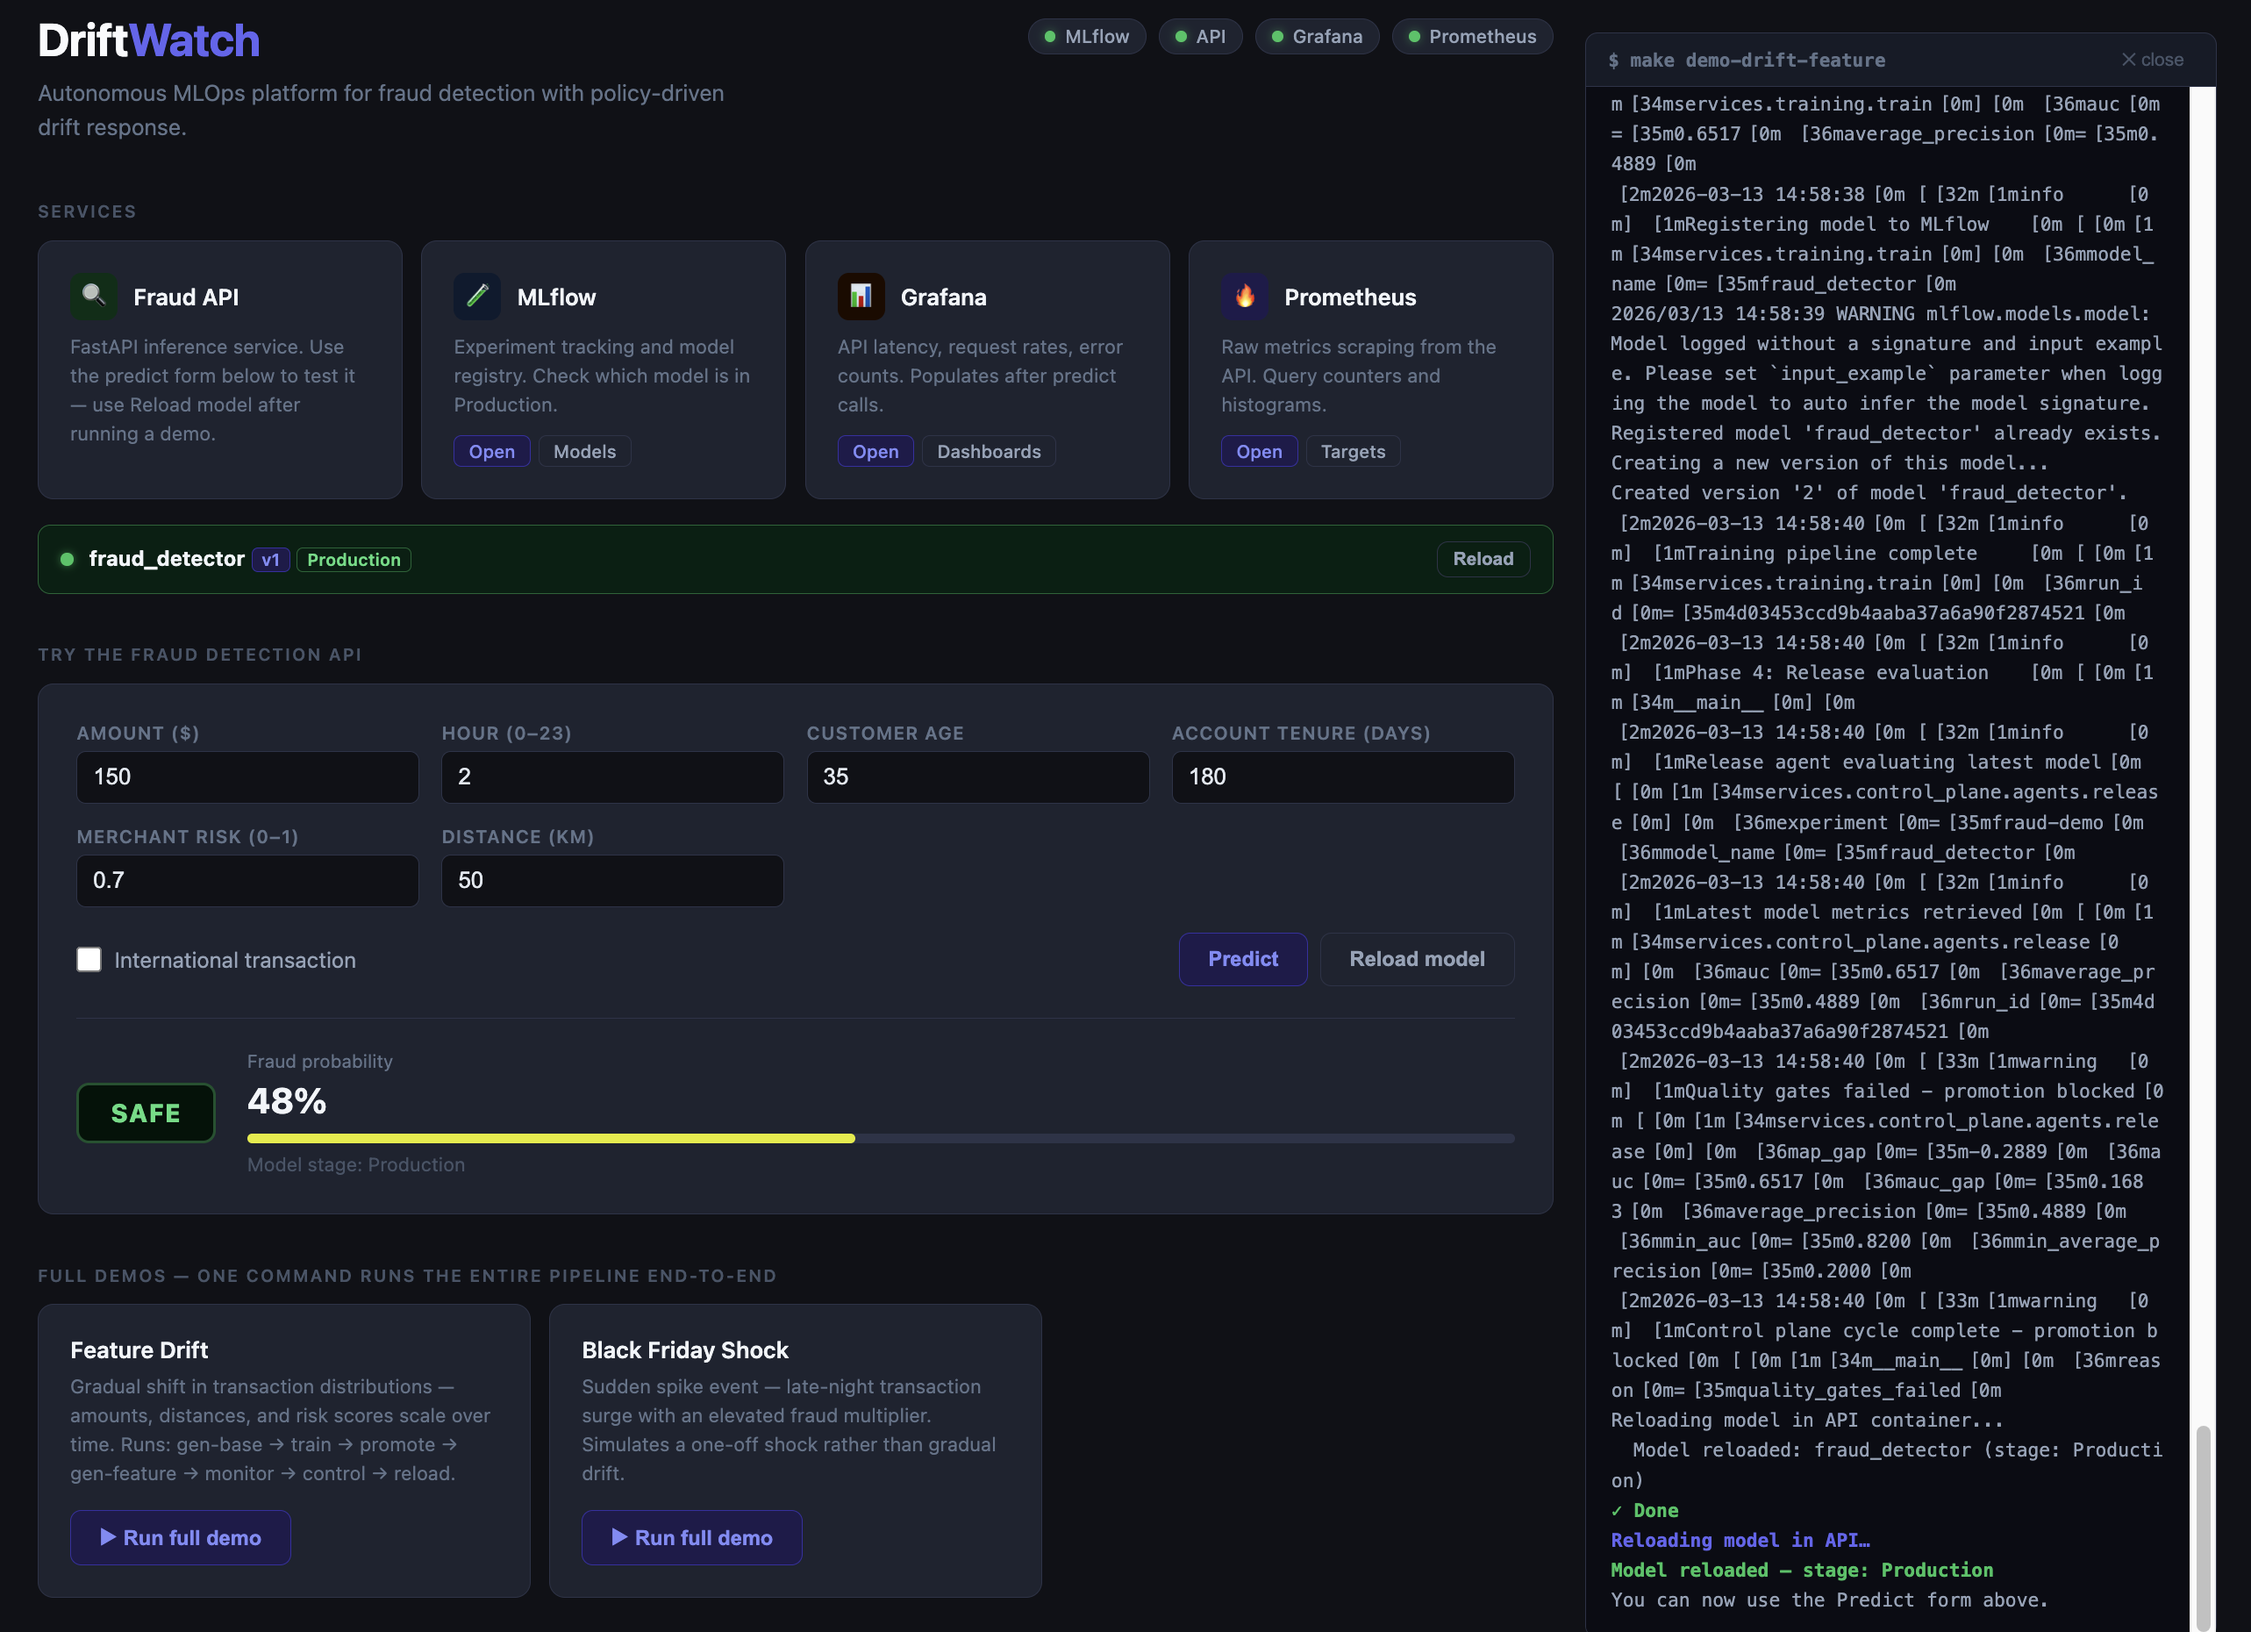
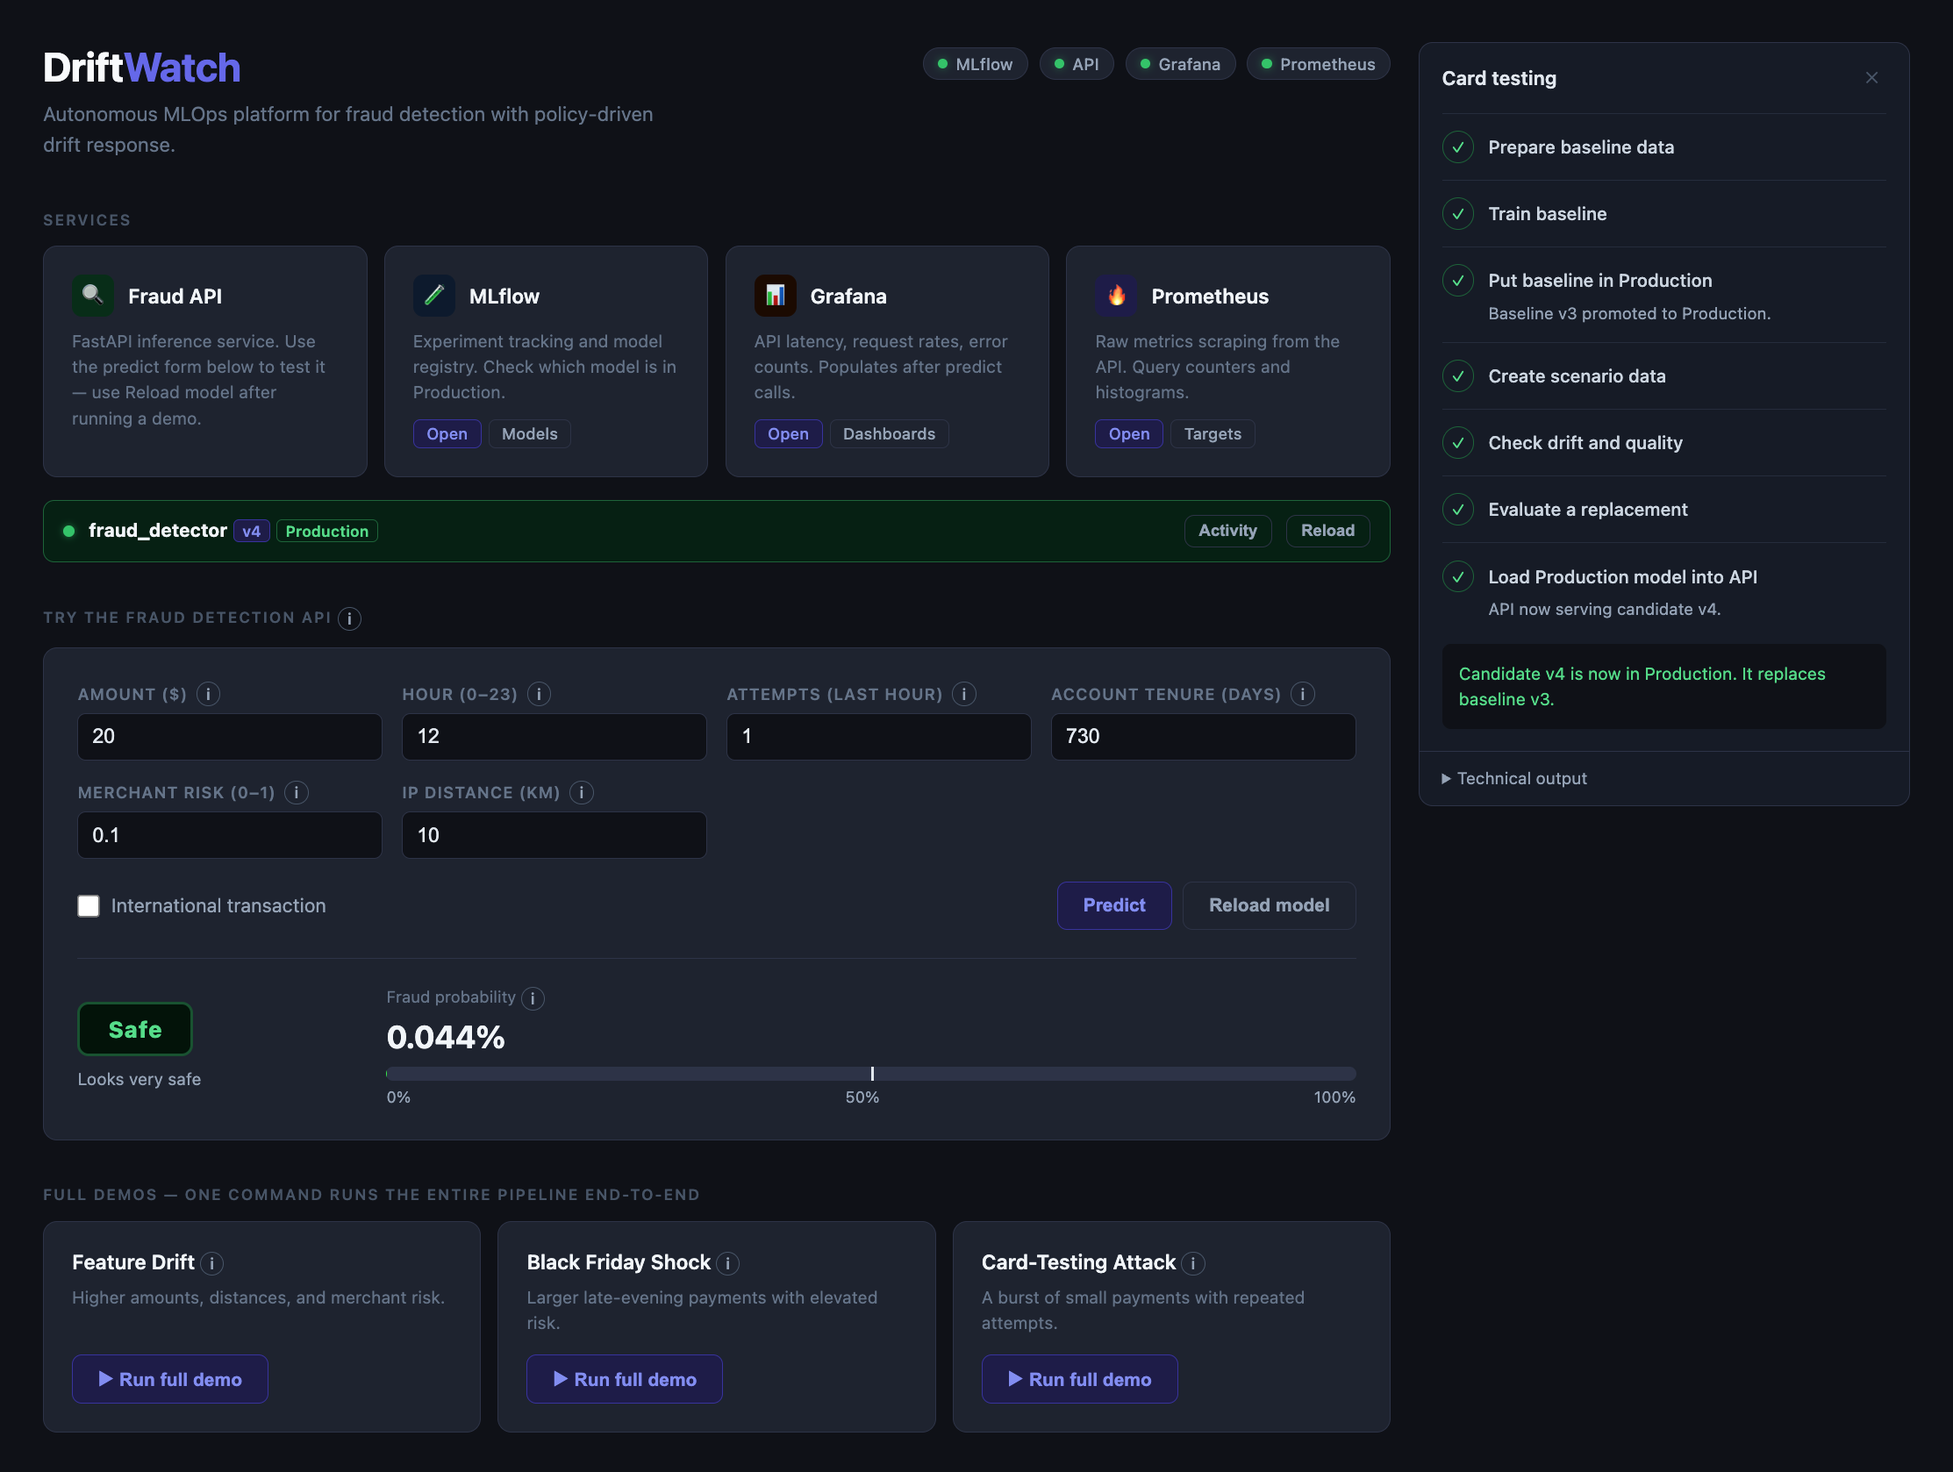
Fixing prediction model - docs + more tests

Changed region(s): [[0.0, 0.0, 0.9919, 1.0]]

diff --git a/tests/test_dashboard_prediction.py b/tests/test_dashboard_prediction.py
@@ -70,13 +70,13 @@ def test_prediction_meter_and_field_feedback():
     }
     for (const [field, value, expected] of [
       ['dist', 200, 'capped'], ['dist', 1000000, 'capped'],
-      ['amount', 150, 'capped'],
+      ['amount', 300, 'capped'],
       ['attempts', 20, 'capped'], ['attempts', 1001, 'at most'],
       ['hour', 24, '0 to 23'],
       ['risk', 1.1, '0 to 1'],
       ['attempts', 1.5, 'whole number'], ['dist', -1, 'non-negative'],
     ]) assert(fieldWarning(field, value).includes(expected));
-    for (const [field, value] of [['hour', 0], ['hour', 22], ['tenure', 1], ['tenure', 4000], ['amount', 3], ['risk', 0.9]]) {
+    for (const [field, value] of [['hour', 0], ['hour', 22], ['tenure', 1], ['tenure', 4000], ['amount', 3], ['amount', 149], ['amount', 150], ['risk', 0.9]]) {
       assert.equal(fieldWarning(field, value), '');
     }
     for (const [distance, capped] of [[0, false], [199, false], [200, true], [1000, true], [10, false]]) {

diff --git a/README.md b/README.md
@@ -107,7 +107,7 @@ make demo-drift-feature
 ```
 
 With the default configuration, the baseline remains in Production because the
-candidate does not improve predictions on held-out current transactions. Drift
+candidate does not improve predictions enough on held-out current transactions. Drift
 triggers evaluation; it does not guarantee that retraining helps.
 
 This will:
@@ -198,8 +198,8 @@ make demo-black-friday
 ```
 
 A retrained model replaces Production only if it passes the quality gates. The
-default Black Friday scenario retains the baseline: the small improvement does
-not justify a release.
+default Black Friday scenario retains the baseline: probability error does not
+improve enough to justify a release.
 
 ### Shock Event (Card Testing)
 A rare attack changes about 1% of rows into small payments with 10–30 prior
@@ -220,12 +220,12 @@ Scenario seeds differ from the baseline seed.
 
 | Scenario | Baseline AUC on current holdout | Candidate AUC | Default decision |
 |---|---:|---:|---|
-| Feature drift | 0.823 | 0.833 | Keep baseline |
-| Black Friday | 0.716 | 0.715 | Keep baseline |
-| Card testing | 0.954 | 0.960 | Promote candidate |
+| Feature drift | 0.840 | 0.842 | Keep baseline |
+| Black Friday | 0.791 | 0.794 | Keep baseline |
+| Card testing | 0.953 | 0.960 | Promote candidate |
 
 These are synthetic results, not real-world accuracy claims. AUC alone does not
-decide a release: card testing reduces Brier probability error by about 54%,
+decide a release: card testing reduces Brier probability error by about 46%,
 whereas the other candidates do not meet the 2% relative improvement requirement.
 Details are in `shared/events/release_result.json` and MLflow.
 
@@ -267,27 +267,43 @@ Seven inputs keep the model small:
 - Merchant risk index (0–1): a synthetic reputation signal, **not a probability**.
 - Distance between the payment IP location and the customer's usual IP location.
   This is an approximate synthetic signal, not distance to an online merchant.
-  Its contribution uses `min(distance / 200, 1)`: it changes up to 200 km,
-  then stays constant. The dashboard highlights when this cap applies.
+  Its contribution rises smoothly up to 200 km, then levels off. The dashboard
+  highlights when this cap applies.
 - International status.
 
-Risk uses bounded amount/distance effects and a gradual attempt contribution:
-`x² × (3 − 2x)`, where `x = min(attempts / 20, 1)`. There is no switch at 10;
-the contribution increases smoothly and caps at 20 attempts. Card testing adds
-a small-payment interaction ($10 or less) with the same gradual attempt curve.
-The simulator also models **combined risk**: a new account at a risky merchant,
-far from its usual IP location, becomes much more suspicious when the payment
-is large, international, and at night. The interaction multiplies merchant risk,
-`exp(-tenure / 180)`, and capped distance. Amount at least $150, night-time, and
-international status each use a factor of 1 when present and 0.5 otherwise.
-`compound_risk_weight: 12.0` weights that interaction in the simulated log odds.
-The generator includes a 0.2% mixture of payments covering these combinations
-and partial variants; their labels are still probabilistic. Training learns the
-same interaction from those examples. The overall baseline fraud target stays
-at 0.2%; it does not constrain every individual payment to a low probability.
-These thresholds and coefficients are demo choices, not proven fraud rules.
-The research handbook's [simulator](https://fraud-detection-handbook.github.io/fraud-detection-handbook/Chapter_3_GettingStarted/SimulatedDataset.html)
-is useful background on rare labels and controlled fraud scenarios.
+The simulator and new models share continuous risk curves. Amount, distance, and
+attempts use `x² × (3 − 2x)` with `x` clamped to 0–1; their saturation points are
+$300, 200 km, and 20 attempts respectively. Both the value and slope join smoothly
+at each endpoint. There is no switch at $150 or 10 attempts. The small-payment
+interaction with repeated attempts is strongest up to $5, fades between $5 and
+$30, and is zero above $30. The card-testing scenario still injects attacks at
+$10 or less; this defines the simulated attack population, not an inference cutoff.
+
+Hour uses one circular night-time curve, peaking from 23:00 through 05:00 and
+fading to zero at 10:00 and 18:00. Midnight is continuous with the previous hour.
+Training no longer fits 24 unrelated hourly coefficients from rare fraud labels.
+
+Combined risk multiplies merchant risk, `exp(-tenure / 180)`, and the same smooth
+distance curve. Amount and night-time each contribute a gradual multiplier from
+0.5 to 1; international status contributes 0.5 or 1. The configured
+`compound_risk_weight: 12.0` weights this interaction in simulated log odds.
+The generator includes a 0.2% mixture of jointly risky payments and partial
+variants; labels remain probabilistic. Overall expected baseline fraud remains
+0.2%; individual transactions may have much higher probabilities.
+
+Training fits L2 logistic regression with nonnegative coefficients on these
+engineered risk contributions and an unrestricted intercept. This keeps higher
+merchant risk, distance, attempts, and international status from reducing risk,
+and keeps longer tenure from increasing it. Amount is intentionally not globally
+monotonic: a repeated $3 payment can resemble card testing more than a $30 payment.
+Above the small-payment region, increasing amount cannot reduce risk.
+These are explicit demo assumptions, not empirically validated fraud rules.
+
+Behavior regression tests cover the reported $149 → $150 case, former cutoffs,
+midnight, input direction, and sensitivity across three baseline seeds and all
+three scenarios. With the default retrained baseline, the reported inputs produce
+approximately **10.08% at $149 and 10.17% at $150**. Existing registered models
+retain their original transforms and predictions, including their old cutoffs.
 
 The dashboard starts with an ordinary $20 payment and one prior attempt. It shows
 actual **fraud probability** from 0–100%, with **Safe** below 50% and **Fraud** at
@@ -306,16 +322,14 @@ release-holdout precision, recall, and flagged fraction. Calibration against
 synthetic labels is not evidence of real-world calibration.
 
 Info icons explain the inputs. Automatic warnings appear only for invalid numbers
-or capped effects (amount at $150, distance at 200 km, attempts at 20).
+or capped effects (amount at $300, distance at 200 km, attempts at 20).
 Editing an input hides the previous result until Predict is clicked again.
 
-**Updating from the step-based attempt model:** regenerate the baseline data,
-retrain, promote, and rebuild/reload the API. Existing registered models keep their
-original transform so their saved coefficients and thresholds are not silently
-reinterpreted. A rollback to one of those models also restores the old 10-attempt step.
-
-The combined-risk update likewise requires regenerating data and retraining;
-reloading an older model alone will not add the learned interaction.
+**Updating to continuous risk curves:** regenerate baseline and current data,
+retrain, promote, and rebuild/reload the API. Reloading an old model alone does not
+apply the update. Versioned transform functions preserve old model semantics;
+rolling back to an older model restores its old behavior. New MLflow runs record
+`risk_features_version: smooth_v2` and `model_type: positive_logreg`.
 
 **Existing installations must regenerate data and retrain:** the old age-based
 models and CSVs are incompatible with the new attempt-count input. Rebuild the
